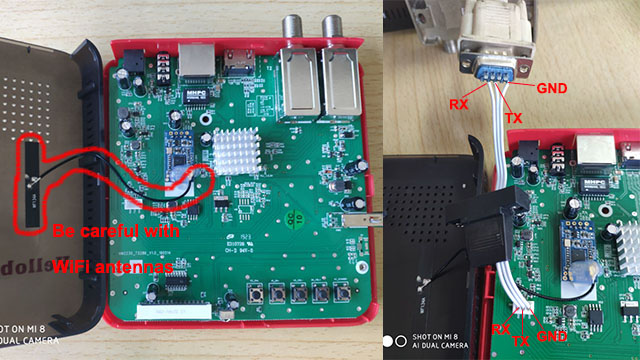
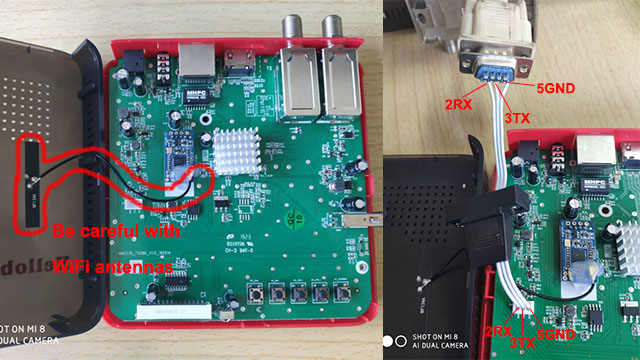
update upg with rs232

diff --git a/README.md b/README.md
@@ -74,11 +74,12 @@ So remember to remove the "auto_burn.fac"!
 
 ### RS232 upgrade 
 This is the last way to recover the box. it requires you to open the box cover, and connect the RS232 cable to PC. 
-1. Remove the screws under the box
-2. Open the box very carefully! The WIFI antenna is connected to the box cover
-3. Insert a 3-wire RS232 interface, and connect the RS232 to PC
-4. Upgrade using PC tool. 
-
-**update this section with picture later!**
+1. Remove the screws under the box cover  
+2. Open the box very carefully! The WIFI antenna is connected to the box 
+![image](https://github.com/DVBFinder/hellobox8/blob/master/pic/upg_unbox.jpg)
+3. Insert a 3-wire RS232 interface, and connect the RS232 to PC with a RS232 cable 
+![image](https://github.com/DVBFinder/hellobox8/blob/master/pic/upg_rs232.jpg)
+4. Download [hellobox8_upg](https://drive.google.com/open?id=1ldPlZLthXh3AOZet2XRLL6aRLpji_V-M) tool, and upgrade with it 
+5. Please refer to readme_upgrade.jpg/readme_download.jpg for hellobox8_upg usuage.
 
 
